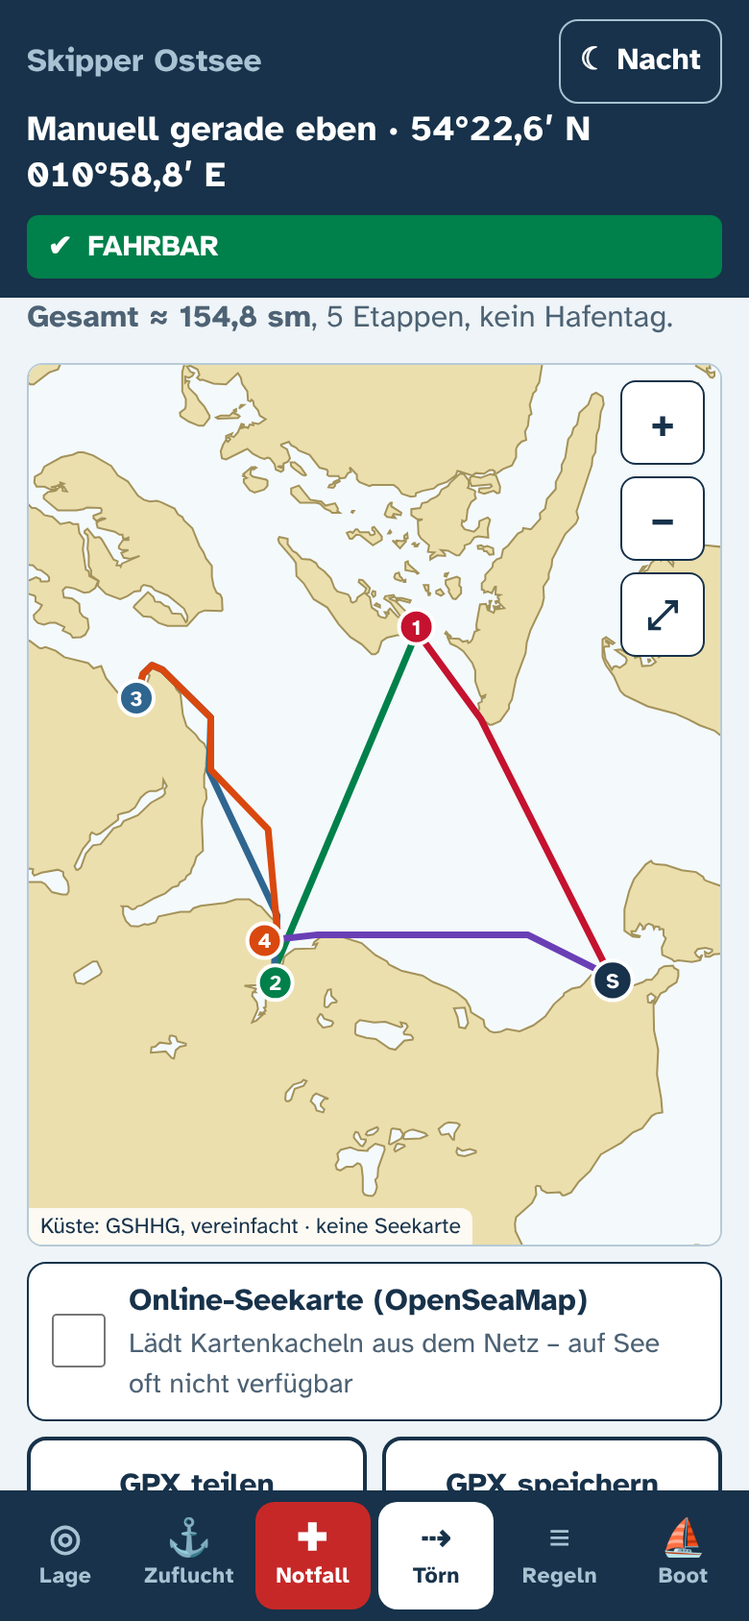
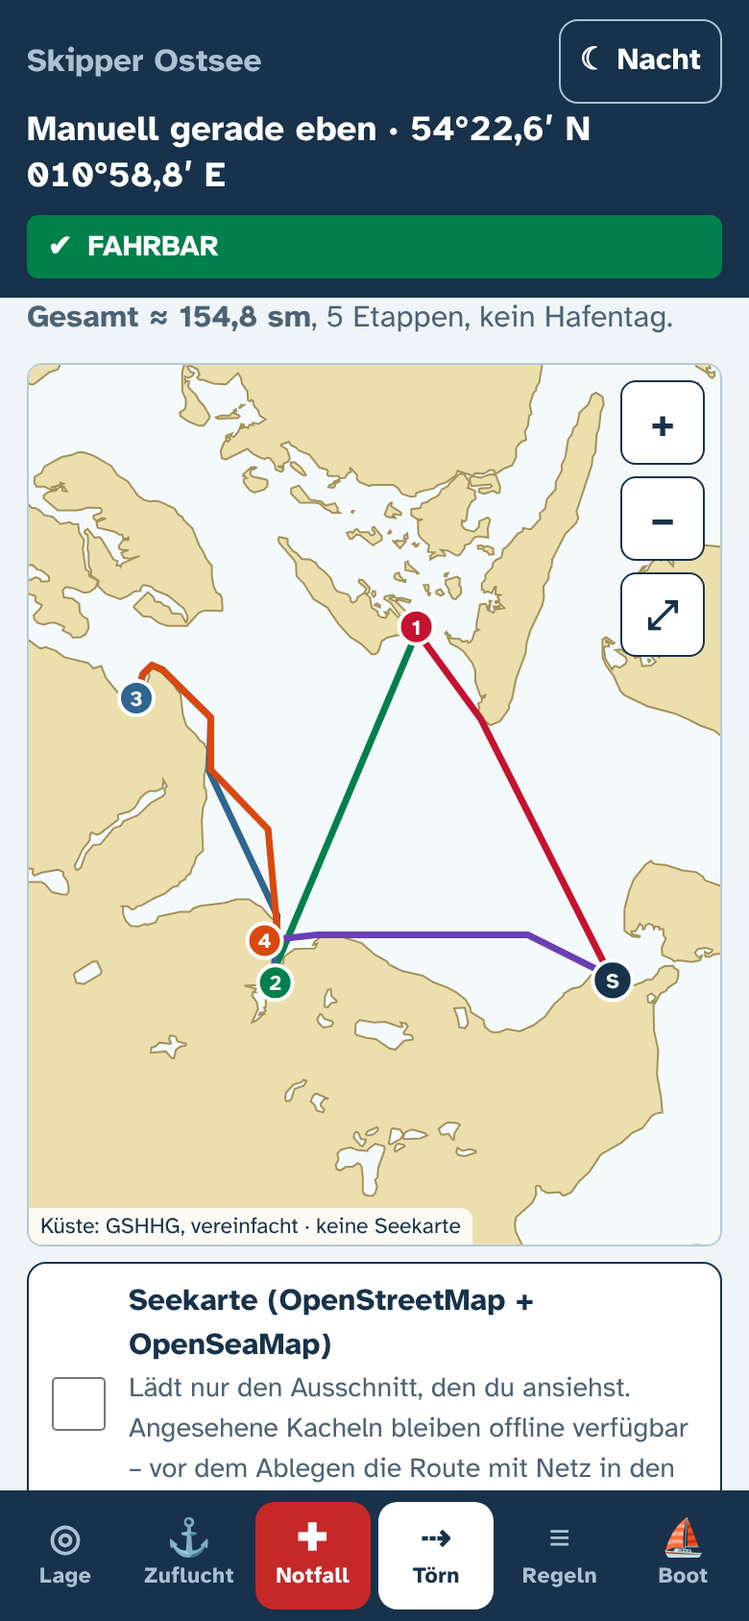
v2.2: keep viewed chart tiles offline (no prefetch, per OSM tile policy)
Claude-Session: https://claude.ai/code/session_01YNuZ8EDFgUHxCZnWZSZe2h

Changed region(s): [[0.0308, 0.7701, 0.9846, 0.9242], [0.8308, 0.8009, 0.8615, 0.8318]]

diff --git a/index.html b/index.html
@@ -590,7 +590,9 @@ nav button .ic{font-size:1.2rem}
   <div id="planhead"></div>
   <div id="mapbox" style="display:none">
     <div class="tmap" id="tmap"></div>
-    <label class="switch"><input type="checkbox" id="m-online"><span>Online-Seekarte (OpenSeaMap)<small>Lädt Kartenkacheln aus dem Netz – auf See oft nicht verfügbar</small></span></label>
+    <label class="switch"><input type="checkbox" id="m-online"><span>Seekarte (OpenStreetMap + OpenSeaMap)<small>Lädt nur den Ausschnitt, den du ansiehst. Angesehene Kacheln bleiben offline verfügbar – vor dem Ablegen die Route mit Netz in den nötigen Zoomstufen ansehen.</small></span></label>
+    <div class="note small" id="m-tstats"></div>
+    <button class="btn sm" id="btn-tclearcache" style="margin-top:6px">Gespeicherte Kartenkacheln löschen</button>
     <div class="grid2" style="margin-top:8px"><button class="btn sm" id="btn-gpxshare">GPX teilen</button><button class="btn sm" id="btn-gpxsave">GPX speichern</button></div>
     <div class="note small">GPX: eine Route je Segeltag mit Wegpunkten, die Häfen als Wegpunkte. Für Navionics, OpenCPN oder den Plotter – dort auf der Seekarte prüfen. Tag antippen (Karte oder Liste) hebt die Etappe hervor.</div>
   </div>
@@ -669,7 +671,7 @@ var CONST={
   plan:{cost:{g:0,y:4,n:6,r:60},night:{g:0,y:3,n:5,r:60},stay:2,perNm:0.08,zielPerNm:0.05,zielGo:0.25,comfort:0.7,longH:0.5,kreuz:2,shallow:0.15,revisit:3,revisitNm:2,minLegNm:5,beam:40,chunkNm:3,bridgeNm:0.3,
     fogM:1000,thunder:[95,96,99],confDays:[3,5],nightFromHour:15,snapNoteNm:0.3,maxLegH:8,maxLegMin:3,maxLegMax:14,defaultStart:'de-heiligenhafen-marina',
     disclaimer:'Planungshilfe. Netz aus Küstenlinie (GSHHG) und Tiefenmodell (GEBCO) – nicht für die Navigation. Jede Etappe in der Seekarte prüfen. Ab Tag 4 nur Trend – täglich neu planen.'},
-  map:{baseUrl:'https://tile.openstreetmap.org/{z}/{x}/{y}.png',seamarkUrl:'https://tiles.openseamap.org/seamark/{z}/{x}/{y}.png',tileMin:5,tileMax:16,maxTiles:48,zMin:5,zMax:15,zFitMax:11,labelZ:8.5},
+  map:{baseUrl:'https://tile.openstreetmap.org/{z}/{x}/{y}.png',seamarkUrl:'https://tiles.openseamap.org/seamark/{z}/{x}/{y}.png',tileMin:5,tileMax:16,maxTiles:48,keepTiles:4000,tileMaxAgeD:30,zMin:5,zMax:15,zFitMax:11,labelZ:8.5},
   wx:{forecastUrl:'https://api.open-meteo.com/v1/forecast',marineUrl:'https://marine-api.open-meteo.com/v1/marine',
     hourly:'wind_speed_10m,wind_direction_10m,wind_gusts_10m,weather_code,visibility',marineHourly:'wave_height,wave_direction',days:7,keep:20,exportKeep:5,maxAgeH:12,hardAgeH:48},
   faustregel:['plan','target','sea','harborSea','harborGust','entrance','crossing','offsets','season','bridgeMargin','reff','traffic']
@@ -2604,7 +2606,7 @@ function mapInit(){
   var c=merc(55.0,11.8);MAP.cx=c.x;MAP.cy=c.y;MAP.z=6.6;
   bindMap();
   $('m-online').checked=MAP.online;
-  mapRender();
+  mapRender();renderTileStats();
 }
 function mapSize(){var r=MAP.svg.getBoundingClientRect();return {w:Math.max(1,r.width),h:Math.max(1,r.height)};}
 function mapScale(){return Math.pow(2,MAP.z-MAPZ);}   // screen px per world unit
@@ -2617,6 +2619,45 @@ function mapRender(){
   $('m-coast').style.display=MAP.online?'none':'';
   mapTiles(v);mapMarks(v);
   $('m-attr').textContent=MAP.online?'© OpenStreetMap-Mitwirkende · Seezeichen © OpenSeaMap':'Küste: GSHHG, vereinfacht · keine Seekarte';
+}
+/* ---- viewed-tile store (SPEC §15.4): only tiles the skipper actually looked at are kept, never prefetched
+   (OSM tile usage policy forbids bulk/offline prefetch; re-visits from a local cache are allowed). ---- */
+var TILES={
+  db:null,mem:{},cors:{},
+  open:function(){var self=this;if(self.db)return Promise.resolve(self.db);
+    return new Promise(function(res,rej){try{var r=indexedDB.open('skipper-ostsee-tiles',1);
+      r.onupgradeneeded=function(){try{r.result.createObjectStore('t',{keyPath:'u'});}catch(e){}};
+      r.onsuccess=function(){self.db=r.result;res(self.db);};r.onerror=function(){rej(r.error);};}catch(e){rej(e);}});},
+  get:function(u){return this.open().then(function(db){return new Promise(function(res){try{var q=db.transaction('t').objectStore('t').get(u);q.onsuccess=function(){res(q.result||null);};q.onerror=function(){res(null);};}catch(e){res(null);}});}).catch(function(){return null;});},
+  put:function(u,blob){var self=this;return self.open().then(function(db){return new Promise(function(res){try{var tx=db.transaction('t','readwrite');tx.objectStore('t').put({u:u,b:blob,t:Date.now(),n:blob.size});tx.oncomplete=function(){res(true);};tx.onerror=function(){res(false);};}catch(e){res(false);}});}).then(function(ok){self.dirty=(self.dirty||0)+1;if(self.dirty%50===0)self.prune();return ok;}).catch(function(){return false;});},
+  stats:function(){return this.open().then(function(db){return new Promise(function(res){var n=0,b=0;try{var c=db.transaction('t').objectStore('t').openCursor();c.onsuccess=function(){var k=c.result;if(k){n++;b+=k.value.n||0;k.continue();}else res({n:n,bytes:b});};c.onerror=function(){res({n:0,bytes:0});};}catch(e){res({n:0,bytes:0});}});}).catch(function(){return {n:0,bytes:0};});},
+  prune:function(){return this.open().then(function(db){return new Promise(function(res){var all=[];var c=db.transaction('t').objectStore('t').openCursor();
+    c.onsuccess=function(){var k=c.result;if(k){all.push([k.value.u,k.value.t]);k.continue();}else{
+      if(all.length<=CONST.map.keepTiles){res(all.length);return;}
+      all.sort(function(a,b){return a[1]-b[1];});var drop=all.slice(0,all.length-CONST.map.keepTiles),tx=db.transaction('t','readwrite');
+      drop.forEach(function(d){tx.objectStore('t').delete(d[0]);});tx.oncomplete=function(){res(CONST.map.keepTiles);};}};});}).catch(function(){});},
+  clear:function(){var self=this;return self.open().then(function(db){return new Promise(function(res){var tx=db.transaction('t','readwrite');tx.objectStore('t').clear();tx.oncomplete=function(){res(true);};});}).catch(function(){return false;});},
+  /* resolve a tile URL to something an <image> can show: stored blob, freshly fetched blob (then stored), or the plain URL */
+  src:function(u){
+    var self=this,host=u.split('/')[2],online=navigator.onLine!==false;
+    return self.get(u).then(function(rec){
+      var fresh=rec&&(Date.now()-rec.t)<CONST.map.tileMaxAgeD*86400000;
+      if(rec&&(fresh||!online))return URL.createObjectURL(rec.b);
+      if(!online)return null;
+      if(self.cors[host]===false)return u;   // server without CORS: show directly, cannot store
+      return fetch(u,{mode:'cors',credentials:'omit'}).then(function(r){if(!r.ok)throw new Error('HTTP '+r.status);return r.blob();})
+        .then(function(b){self.cors[host]=true;self.put(u,b);return URL.createObjectURL(b);})
+        .catch(function(e){if(rec)return URL.createObjectURL(rec.b);if(self.cors[host]===undefined&&e instanceof TypeError){self.cors[host]=false;return u;}return null;});
+    });
+  }
+};
+function renderTileStats(){
+  var el=$('m-tstats');if(!el)return;
+  TILES.stats().then(function(st){
+    var nc=Object.keys(TILES.cors).filter(function(h){return TILES.cors[h]===false;});
+    el.textContent=st.n?('Auf dem Gerät: '+st.n+' angesehene Kartenkacheln ('+(Math.round(st.bytes/1e5)/10).toString().replace('.',',')+' MB) – offline verfügbar.'):'Noch keine Kartenkacheln gespeichert. Gespeichert wird nur, was du online ansiehst.';
+    if(nc.length)el.textContent+=' '+nc.join(', ')+' erlaubt kein Speichern – diese Ebene nur online.';
+  });
 }
 function mapTiles(v){
   var g=$('m-tiles'),gs=$('m-seamark');
@@ -2631,7 +2672,9 @@ function mapTiles(v){
     var xx=((tx%n)+n)%n;
     [[g,CONST.map.baseUrl],[gs,CONST.map.seamarkUrl]].forEach(function(p){
       var im=document.createElementNS('http://www.w3.org/2000/svg','image');
-      im.setAttribute('href',p[1].replace('{z}',zi).replace('{x}',xx).replace('{y}',ty));
+      var u=p[1].replace('{z}',zi).replace('{x}',xx).replace('{y}',ty),tz=zi;
+      TILES.src(u).then(function(src){if(!src||MAP.tz!==tz||!im.isConnected){if(src&&src.indexOf('blob:')===0)URL.revokeObjectURL(src);return;}
+        im.setAttribute('href',src);if(src.indexOf('blob:')===0)im.addEventListener('load',function(){setTimeout(function(){URL.revokeObjectURL(src);},0);},{once:true});clearTimeout(MAP.statT);MAP.statT=setTimeout(renderTileStats,800);});
       im.setAttribute('x',tx*ts);im.setAttribute('y',ty*ts);im.setAttribute('width',ts+0.5);im.setAttribute('height',ts+0.5);
       im.setAttribute('preserveAspectRatio','none');p[0].appendChild(im);
     });
@@ -2965,7 +3008,8 @@ function initToern(){
   $('f-import').addEventListener('change',function(){var f=this.files&&this.files[0];if(!f)return;var r=new FileReader();r.onload=function(){doImportText(String(r.result));};r.readAsText(f);this.value='';});
   $('planres').addEventListener('click',function(e){var b=e.target.closest('[data-ptarget]');if(b){setTargetHarbor(b.dataset.ptarget);update();showScreen('scr-lage');return;}
     var t=e.target.closest('.pday .pt,.pday .pd');if(t){var c=t.closest('.pday');if(c&&c.querySelector('.pdot')){mapSelect(+c.dataset.d,false);if(MAP.sel!==null){mapFit(MAP.sel);$('tmap').scrollIntoView({block:'center',behavior:'smooth'});}}}});
-  $('btn-gpxshare').addEventListener('click',gpxShare);$('btn-gpxsave').addEventListener('click',gpxSave);
+  $('btn-gpxshare').addEventListener('click',gpxShare);
+  $('btn-tclearcache').addEventListener('click',function(){MAP.online=false;$('m-online').checked=false;store('skipperOst.mapOnline','0');TILES.clear().then(function(){MAP.tiles={};MAP.tz=null;$('m-tiles').innerHTML='';$('m-seamark').innerHTML='';mapRender();renderTileStats();});});$('btn-gpxsave').addEventListener('click',gpxSave);
   renderToernForm();renderPlan();renderWxState();
   IDB.latest().then(function(sn){if(sn&&!WX){wxSet(sn);renderWxState();renderPlan();}}).catch(function(){});
 }
@@ -2976,7 +3020,7 @@ window.SKIPPER={bridgeContactHTML:bridgeContactHTML,harborCardHTML:function(it,s
   isOutOfArea:isOutOfArea,euOffset:euOffset,utcToLocal:utcToLocal,sunTimes:sunTimes,seaAreaOf:seaAreaOf,countryOf:countryOf,boatNeeds:boatNeeds,bridgeCheck:bridgeCheck,
   rhumb:rhumb,courseToWind:courseToWind,effThresholds:effThresholds,filterList:filterList,emergencyNumbers:emergencyNumbers,DISCLAIMER:DISCLAIMER,
   NET:NET,WXGRID:WXGRID,netTree:netTree,netRoute:netRoute,routeBridges:routeBridges,treeOf:treeOf,inNet:inNet,wxAt:wxAt,wxSet:wxSet,wxFromOpenMeteo:wxFromOpenMeteo,wxUrls:wxUrls,wxValid:wxValid,
-  chunkLevel:chunkLevel,MAP:MAP,merc:merc,mapFit:mapFit,mapZoomAt:mapZoomAt,mapSelect:mapSelect,planGPX:planGPX,gpxFile:gpxFile,getWX:function(){return WX;},IDB:IDB,planTrip:planTrip,planCandidates:planCandidates,simLeg:simLeg,nightCheck:nightCheck,dayStartMs:dayStartMs,PL:PL,renderPlan:renderPlan,doImportText:doImportText,planSerialize:planSerialize};
+  chunkLevel:chunkLevel,MAP:MAP,TILES:TILES,merc:merc,mapFit:mapFit,mapZoomAt:mapZoomAt,mapSelect:mapSelect,planGPX:planGPX,gpxFile:gpxFile,getWX:function(){return WX;},IDB:IDB,planTrip:planTrip,planCandidates:planCandidates,simLeg:simLeg,nightCheck:nightCheck,dayStartMs:dayStartMs,PL:PL,renderPlan:renderPlan,doImportText:doImportText,planSerialize:planSerialize};
 
 if(document.readyState==='loading')document.addEventListener('DOMContentLoaded',init);else init();
 })();

diff --git a/src/app.html b/src/app.html
@@ -590,7 +590,9 @@ nav button .ic{font-size:1.2rem}
   <div id="planhead"></div>
   <div id="mapbox" style="display:none">
     <div class="tmap" id="tmap"></div>
-    <label class="switch"><input type="checkbox" id="m-online"><span>Online-Seekarte (OpenSeaMap)<small>Lädt Kartenkacheln aus dem Netz – auf See oft nicht verfügbar</small></span></label>
+    <label class="switch"><input type="checkbox" id="m-online"><span>Seekarte (OpenStreetMap + OpenSeaMap)<small>Lädt nur den Ausschnitt, den du ansiehst. Angesehene Kacheln bleiben offline verfügbar – vor dem Ablegen die Route mit Netz in den nötigen Zoomstufen ansehen.</small></span></label>
+    <div class="note small" id="m-tstats"></div>
+    <button class="btn sm" id="btn-tclearcache" style="margin-top:6px">Gespeicherte Kartenkacheln löschen</button>
     <div class="grid2" style="margin-top:8px"><button class="btn sm" id="btn-gpxshare">GPX teilen</button><button class="btn sm" id="btn-gpxsave">GPX speichern</button></div>
     <div class="note small">GPX: eine Route je Segeltag mit Wegpunkten, die Häfen als Wegpunkte. Für Navionics, OpenCPN oder den Plotter – dort auf der Seekarte prüfen. Tag antippen (Karte oder Liste) hebt die Etappe hervor.</div>
   </div>
@@ -660,7 +662,7 @@ var CONST={
   plan:{cost:{g:0,y:4,n:6,r:60},night:{g:0,y:3,n:5,r:60},stay:2,perNm:0.08,zielPerNm:0.05,zielGo:0.25,comfort:0.7,longH:0.5,kreuz:2,shallow:0.15,revisit:3,revisitNm:2,minLegNm:5,beam:40,chunkNm:3,bridgeNm:0.3,
     fogM:1000,thunder:[95,96,99],confDays:[3,5],nightFromHour:15,snapNoteNm:0.3,maxLegH:8,maxLegMin:3,maxLegMax:14,defaultStart:'de-heiligenhafen-marina',
     disclaimer:'Planungshilfe. Netz aus Küstenlinie (GSHHG) und Tiefenmodell (GEBCO) – nicht für die Navigation. Jede Etappe in der Seekarte prüfen. Ab Tag 4 nur Trend – täglich neu planen.'},
-  map:{baseUrl:'https://tile.openstreetmap.org/{z}/{x}/{y}.png',seamarkUrl:'https://tiles.openseamap.org/seamark/{z}/{x}/{y}.png',tileMin:5,tileMax:16,maxTiles:48,zMin:5,zMax:15,zFitMax:11,labelZ:8.5},
+  map:{baseUrl:'https://tile.openstreetmap.org/{z}/{x}/{y}.png',seamarkUrl:'https://tiles.openseamap.org/seamark/{z}/{x}/{y}.png',tileMin:5,tileMax:16,maxTiles:48,keepTiles:4000,tileMaxAgeD:30,zMin:5,zMax:15,zFitMax:11,labelZ:8.5},
   wx:{forecastUrl:'https://api.open-meteo.com/v1/forecast',marineUrl:'https://marine-api.open-meteo.com/v1/marine',
     hourly:'wind_speed_10m,wind_direction_10m,wind_gusts_10m,weather_code,visibility',marineHourly:'wave_height,wave_direction',days:7,keep:20,exportKeep:5,maxAgeH:12,hardAgeH:48},
   faustregel:['plan','target','sea','harborSea','harborGust','entrance','crossing','offsets','season','bridgeMargin','reff','traffic']
@@ -2595,7 +2597,7 @@ function mapInit(){
   var c=merc(55.0,11.8);MAP.cx=c.x;MAP.cy=c.y;MAP.z=6.6;
   bindMap();
   $('m-online').checked=MAP.online;
-  mapRender();
+  mapRender();renderTileStats();
 }
 function mapSize(){var r=MAP.svg.getBoundingClientRect();return {w:Math.max(1,r.width),h:Math.max(1,r.height)};}
 function mapScale(){return Math.pow(2,MAP.z-MAPZ);}   // screen px per world unit
@@ -2608,6 +2610,45 @@ function mapRender(){
   $('m-coast').style.display=MAP.online?'none':'';
   mapTiles(v);mapMarks(v);
   $('m-attr').textContent=MAP.online?'© OpenStreetMap-Mitwirkende · Seezeichen © OpenSeaMap':'Küste: GSHHG, vereinfacht · keine Seekarte';
+}
+/* ---- viewed-tile store (SPEC §15.4): only tiles the skipper actually looked at are kept, never prefetched
+   (OSM tile usage policy forbids bulk/offline prefetch; re-visits from a local cache are allowed). ---- */
+var TILES={
+  db:null,mem:{},cors:{},
+  open:function(){var self=this;if(self.db)return Promise.resolve(self.db);
+    return new Promise(function(res,rej){try{var r=indexedDB.open('skipper-ostsee-tiles',1);
+      r.onupgradeneeded=function(){try{r.result.createObjectStore('t',{keyPath:'u'});}catch(e){}};
+      r.onsuccess=function(){self.db=r.result;res(self.db);};r.onerror=function(){rej(r.error);};}catch(e){rej(e);}});},
+  get:function(u){return this.open().then(function(db){return new Promise(function(res){try{var q=db.transaction('t').objectStore('t').get(u);q.onsuccess=function(){res(q.result||null);};q.onerror=function(){res(null);};}catch(e){res(null);}});}).catch(function(){return null;});},
+  put:function(u,blob){var self=this;return self.open().then(function(db){return new Promise(function(res){try{var tx=db.transaction('t','readwrite');tx.objectStore('t').put({u:u,b:blob,t:Date.now(),n:blob.size});tx.oncomplete=function(){res(true);};tx.onerror=function(){res(false);};}catch(e){res(false);}});}).then(function(ok){self.dirty=(self.dirty||0)+1;if(self.dirty%50===0)self.prune();return ok;}).catch(function(){return false;});},
+  stats:function(){return this.open().then(function(db){return new Promise(function(res){var n=0,b=0;try{var c=db.transaction('t').objectStore('t').openCursor();c.onsuccess=function(){var k=c.result;if(k){n++;b+=k.value.n||0;k.continue();}else res({n:n,bytes:b});};c.onerror=function(){res({n:0,bytes:0});};}catch(e){res({n:0,bytes:0});}});}).catch(function(){return {n:0,bytes:0};});},
+  prune:function(){return this.open().then(function(db){return new Promise(function(res){var all=[];var c=db.transaction('t').objectStore('t').openCursor();
+    c.onsuccess=function(){var k=c.result;if(k){all.push([k.value.u,k.value.t]);k.continue();}else{
+      if(all.length<=CONST.map.keepTiles){res(all.length);return;}
+      all.sort(function(a,b){return a[1]-b[1];});var drop=all.slice(0,all.length-CONST.map.keepTiles),tx=db.transaction('t','readwrite');
+      drop.forEach(function(d){tx.objectStore('t').delete(d[0]);});tx.oncomplete=function(){res(CONST.map.keepTiles);};}};});}).catch(function(){});},
+  clear:function(){var self=this;return self.open().then(function(db){return new Promise(function(res){var tx=db.transaction('t','readwrite');tx.objectStore('t').clear();tx.oncomplete=function(){res(true);};});}).catch(function(){return false;});},
+  /* resolve a tile URL to something an <image> can show: stored blob, freshly fetched blob (then stored), or the plain URL */
+  src:function(u){
+    var self=this,host=u.split('/')[2],online=navigator.onLine!==false;
+    return self.get(u).then(function(rec){
+      var fresh=rec&&(Date.now()-rec.t)<CONST.map.tileMaxAgeD*86400000;
+      if(rec&&(fresh||!online))return URL.createObjectURL(rec.b);
+      if(!online)return null;
+      if(self.cors[host]===false)return u;   // server without CORS: show directly, cannot store
+      return fetch(u,{mode:'cors',credentials:'omit'}).then(function(r){if(!r.ok)throw new Error('HTTP '+r.status);return r.blob();})
+        .then(function(b){self.cors[host]=true;self.put(u,b);return URL.createObjectURL(b);})
+        .catch(function(e){if(rec)return URL.createObjectURL(rec.b);if(self.cors[host]===undefined&&e instanceof TypeError){self.cors[host]=false;return u;}return null;});
+    });
+  }
+};
+function renderTileStats(){
+  var el=$('m-tstats');if(!el)return;
+  TILES.stats().then(function(st){
+    var nc=Object.keys(TILES.cors).filter(function(h){return TILES.cors[h]===false;});
+    el.textContent=st.n?('Auf dem Gerät: '+st.n+' angesehene Kartenkacheln ('+(Math.round(st.bytes/1e5)/10).toString().replace('.',',')+' MB) – offline verfügbar.'):'Noch keine Kartenkacheln gespeichert. Gespeichert wird nur, was du online ansiehst.';
+    if(nc.length)el.textContent+=' '+nc.join(', ')+' erlaubt kein Speichern – diese Ebene nur online.';
+  });
 }
 function mapTiles(v){
   var g=$('m-tiles'),gs=$('m-seamark');
@@ -2622,7 +2663,9 @@ function mapTiles(v){
     var xx=((tx%n)+n)%n;
     [[g,CONST.map.baseUrl],[gs,CONST.map.seamarkUrl]].forEach(function(p){
       var im=document.createElementNS('http://www.w3.org/2000/svg','image');
-      im.setAttribute('href',p[1].replace('{z}',zi).replace('{x}',xx).replace('{y}',ty));
+      var u=p[1].replace('{z}',zi).replace('{x}',xx).replace('{y}',ty),tz=zi;
+      TILES.src(u).then(function(src){if(!src||MAP.tz!==tz||!im.isConnected){if(src&&src.indexOf('blob:')===0)URL.revokeObjectURL(src);return;}
+        im.setAttribute('href',src);if(src.indexOf('blob:')===0)im.addEventListener('load',function(){setTimeout(function(){URL.revokeObjectURL(src);},0);},{once:true});clearTimeout(MAP.statT);MAP.statT=setTimeout(renderTileStats,800);});
       im.setAttribute('x',tx*ts);im.setAttribute('y',ty*ts);im.setAttribute('width',ts+0.5);im.setAttribute('height',ts+0.5);
       im.setAttribute('preserveAspectRatio','none');p[0].appendChild(im);
     });
@@ -2956,7 +2999,8 @@ function initToern(){
   $('f-import').addEventListener('change',function(){var f=this.files&&this.files[0];if(!f)return;var r=new FileReader();r.onload=function(){doImportText(String(r.result));};r.readAsText(f);this.value='';});
   $('planres').addEventListener('click',function(e){var b=e.target.closest('[data-ptarget]');if(b){setTargetHarbor(b.dataset.ptarget);update();showScreen('scr-lage');return;}
     var t=e.target.closest('.pday .pt,.pday .pd');if(t){var c=t.closest('.pday');if(c&&c.querySelector('.pdot')){mapSelect(+c.dataset.d,false);if(MAP.sel!==null){mapFit(MAP.sel);$('tmap').scrollIntoView({block:'center',behavior:'smooth'});}}}});
-  $('btn-gpxshare').addEventListener('click',gpxShare);$('btn-gpxsave').addEventListener('click',gpxSave);
+  $('btn-gpxshare').addEventListener('click',gpxShare);
+  $('btn-tclearcache').addEventListener('click',function(){MAP.online=false;$('m-online').checked=false;store('skipperOst.mapOnline','0');TILES.clear().then(function(){MAP.tiles={};MAP.tz=null;$('m-tiles').innerHTML='';$('m-seamark').innerHTML='';mapRender();renderTileStats();});});$('btn-gpxsave').addEventListener('click',gpxSave);
   renderToernForm();renderPlan();renderWxState();
   IDB.latest().then(function(sn){if(sn&&!WX){wxSet(sn);renderWxState();renderPlan();}}).catch(function(){});
 }
@@ -2967,7 +3011,7 @@ window.SKIPPER={bridgeContactHTML:bridgeContactHTML,harborCardHTML:function(it,s
   isOutOfArea:isOutOfArea,euOffset:euOffset,utcToLocal:utcToLocal,sunTimes:sunTimes,seaAreaOf:seaAreaOf,countryOf:countryOf,boatNeeds:boatNeeds,bridgeCheck:bridgeCheck,
   rhumb:rhumb,courseToWind:courseToWind,effThresholds:effThresholds,filterList:filterList,emergencyNumbers:emergencyNumbers,DISCLAIMER:DISCLAIMER,
   NET:NET,WXGRID:WXGRID,netTree:netTree,netRoute:netRoute,routeBridges:routeBridges,treeOf:treeOf,inNet:inNet,wxAt:wxAt,wxSet:wxSet,wxFromOpenMeteo:wxFromOpenMeteo,wxUrls:wxUrls,wxValid:wxValid,
-  chunkLevel:chunkLevel,MAP:MAP,merc:merc,mapFit:mapFit,mapZoomAt:mapZoomAt,mapSelect:mapSelect,planGPX:planGPX,gpxFile:gpxFile,getWX:function(){return WX;},IDB:IDB,planTrip:planTrip,planCandidates:planCandidates,simLeg:simLeg,nightCheck:nightCheck,dayStartMs:dayStartMs,PL:PL,renderPlan:renderPlan,doImportText:doImportText,planSerialize:planSerialize};
+  chunkLevel:chunkLevel,MAP:MAP,TILES:TILES,merc:merc,mapFit:mapFit,mapZoomAt:mapZoomAt,mapSelect:mapSelect,planGPX:planGPX,gpxFile:gpxFile,getWX:function(){return WX;},IDB:IDB,planTrip:planTrip,planCandidates:planCandidates,simLeg:simLeg,nightCheck:nightCheck,dayStartMs:dayStartMs,PL:PL,renderPlan:renderPlan,doImportText:doImportText,planSerialize:planSerialize};
 
 if(document.readyState==='loading')document.addEventListener('DOMContentLoaded',init);else init();
 })();

diff --git a/tests/logic.test.js b/tests/logic.test.js
@@ -774,7 +774,7 @@ const NOW = Date.UTC(2026, 6, 15, 9, 0); // 15.07.2026 11:00 MESZ: fixed clock, 
     // 63 online chart only on switch
[1 lines of base64/hex data omitted]
     const hosts = new Set();
-    await page.route('https://tile.openstreetmap.org/**', (rt) => { hosts.add('osm'); rt.fulfill({ status: 200, contentType: 'image/png', body: png }); });
+    await page.route('https://tile.openstreetmap.org/**', (rt) => { hosts.add('osm'); rt.fulfill({ status: 200, contentType: 'image/png', headers: { 'Access-Control-Allow-Origin': '*' }, body: png }); });
     await page.route('https://tiles.openseamap.org/**', (rt) => { hosts.add('seamark'); rt.fulfill({ status: 200, contentType: 'image/png', body: png }); });
     const before = external.length;
     await page.check('#m-online'); await page.waitForTimeout(500);
@@ -798,6 +798,31 @@ const NOW = Date.UTC(2026, 6, 15, 9, 0); // 15.07.2026 11:00 MESZ: fixed clock, 
     });
     check('64 GPX 1.1: wohlgeformt, je Segeltag ein rte mit allen Wegpunkten, startet am Starthafen, letzter Punkt = Zielhafen, Häfen als wpt, Hinweis enthalten',
       g.err === 0 && g.ns === 'http://www.topografix.com/GPX/1/1' && g.rtes === g.legs && g.pts === g.ptsExp && Math.abs(g.first[0] - g.st[0]) < 1e-4 && Math.abs(g.first[1] - g.st[1]) < 1e-4 && /Heiligenhafen/.test(g.lastName) && g.wpt >= 2 && g.disc && /\.gpx$/.test(g.name), JSON.stringify(g));
+  }
+
+  // ---- v2.2 viewed tiles offline (spec §15.4) ----
+  {
[1 lines of base64/hex data omitted]
+    await page.route('https://tile.openstreetmap.org/**', (rt) => rt.fulfill({ status: 200, contentType: 'image/png', headers: { 'Access-Control-Allow-Origin': '*' }, body: png }));
+    await page.route('https://tiles.openseamap.org/**', (rt) => rt.fulfill({ status: 200, contentType: 'image/png', headers: { 'Access-Control-Allow-Origin': '*' }, body: png }));
+    await page.evaluate(() => SKIPPER.TILES.clear());
+    await page.evaluate(() => { SKIPPER.mapFit(null); SKIPPER.MAP.tiles = {}; SKIPPER.MAP.tz = null; document.getElementById('m-tiles').innerHTML = ''; document.getElementById('m-seamark').innerHTML = ''; });
+    await page.check('#m-online'); await page.waitForTimeout(800);
+    const stored = await page.evaluate(() => SKIPPER.TILES.stats());
+    const view = await page.evaluate(() => document.querySelectorAll('#m-tiles image').length);
+    await page.context().setOffline(true);
+    const before = external.length;
+    await page.evaluate(() => { SKIPPER.MAP.tiles = {}; SKIPPER.MAP.tz = null; document.getElementById('m-tiles').innerHTML = ''; document.getElementById('m-seamark').innerHTML = ''; SKIPPER.mapFit(null); });
+    await page.waitForTimeout(800);
+    const off = await page.evaluate(() => { const im = [...document.querySelectorAll('#m-tiles image, #m-seamark image')]; return { n: im.length, blob: im.filter(i => (i.getAttribute('href') || '').startsWith('blob:')).length }; });
+    const offReq = external.length - before;
+    await page.context().setOffline(false);
+    await page.click('#btn-tclearcache'); await page.waitForTimeout(300);
+    const cleared = await page.evaluate(() => SKIPPER.TILES.stats());
+    await page.uncheck('#m-online');
+    await page.unroute('https://tile.openstreetmap.org/**'); await page.unroute('https://tiles.openseamap.org/**');
+    check('65 Angesehene Kacheln (Basis + Seezeichen) liegen auf dem Gerät und kommen offline ohne Requests; „löschen“ leert den Speicher',
+      stored.n === 2 * view && view > 0 && off.n === 2 * view && off.blob === off.n && offReq === 0 && cleared.n === 0, JSON.stringify({ stored, view, off, offReq, cleared }));
   }
   await browser.close();
   const failed = results.filter(r => !r.ok);

diff --git a/sw.js b/sw.js
@@ -1,5 +1,5 @@
 /* Offline cache for Skipper-Assistent Ostsee. Cache-first, falls back to network; all errors are swallowed. */
-var CACHE='skipper-ostsee-v2.1-20261101';
+var CACHE='skipper-ostsee-v2.2-20261101';
 var FILES=['./','./index.html','./manifest.webmanifest','./icon.svg','./icon-192.png','./icon-512.png'];
 self.addEventListener('install',function(e){
   e.waitUntil(caches.open(CACHE).then(function(c){return c.addAll(FILES);}).then(function(){return self.skipWaiting();}).catch(function(){}));

diff --git a/SPEC_v1.md b/SPEC_v1.md
@@ -343,3 +343,9 @@ Ziel: Aus aktueller Wettervorhersage (online, auf Tippen) eine Route über 2–7
 - **Online-Seekarte** nur per Schalter (Default aus, gespeichert): Kacheln `tile.openstreetmap.org` + Seezeichen `tiles.openseamap.org/seamark`, max. 48 Kacheln je Ansicht, Attribution sichtbar. Ohne Schalter 0 externe Requests.
 - **GPX 1.1**: je Segeltag ein `<rte>` (Name „Tag n Von – Nach“, `rtept` Start/Ziel mit Hafennamen, dazwischen „Tn WPxx“ mit rwK/sm), Häfen als `<wpt>`, Hinweis „nicht für die Navigation“ in `<metadata>`. „GPX teilen“ (Android-Teilen-Menü, sonst Download) und „GPX speichern“.
 - Tests 61–64.
+
+### 15.4 Angesehene Kacheln offline (v2.2)
+- Kein Vorab-Download eines Gebiets: Die OSM-Nutzungsregeln verbieten Prefetch/„Gebiet für später speichern“ (https://operations.osmfoundation.org/policies/tiles/). Gespeichert wird nur, was im Ausschnitt angezeigt wurde.
+- Kacheln per `fetch` (CORS) laden, in IndexedDB `skipper-ostsee-tiles` ablegen (max. 4000, älteste zuerst gelöscht), 30 Tage frisch; offline wird jede gespeicherte Kachel gezeigt. Server ohne CORS: Kachel direkt anzeigen, nicht speichern, Hinweis.
+- Anzeige „Auf dem Gerät: n Kacheln (x MB)“ und Knopf „Gespeicherte Kartenkacheln löschen“ (schaltet die Seekarte aus, sonst würde der Ausschnitt sofort neu gespeichert).
+- Test 65: angesehene Kacheln kommen offline aus dem Gerätespeicher (0 Requests), Löschen leert ihn.

diff --git a/CHANGELOG.md b/CHANGELOG.md
@@ -68,3 +68,7 @@ Erstausgabe der Ostsee-App nach SPEC_v1.md, aufbauend auf Skipper-Assistent Sard
 - Schalter „Online-Seekarte (OpenSeaMap)“: OSM-Karte mit Seezeichen-Overlay, nur wenn eingeschaltet.
 - GPX-Export (teilen/speichern): eine Route je Segeltag, Häfen als Wegpunkte – für Navionics, OpenCPN, Plotter.
 - Tests 61–64, Screenshot 16, SW-Cache `skipper-ostsee-v2.1-20261101`.
+
+## v2.2 (01.11.2026) Angesehene Kartenkacheln offline (SPEC §15.4)
+- Kacheln, die online angesehen wurden, bleiben auf dem Gerät (IndexedDB, max. 4000, 30 Tage frisch) und erscheinen ohne Netz; kein Vorab-Download (OSM-Nutzungsregeln).
+- Anzeige des Speichers und Knopf zum Löschen. Test 65, SW-Cache `skipper-ostsee-v2.2-20261101`.
